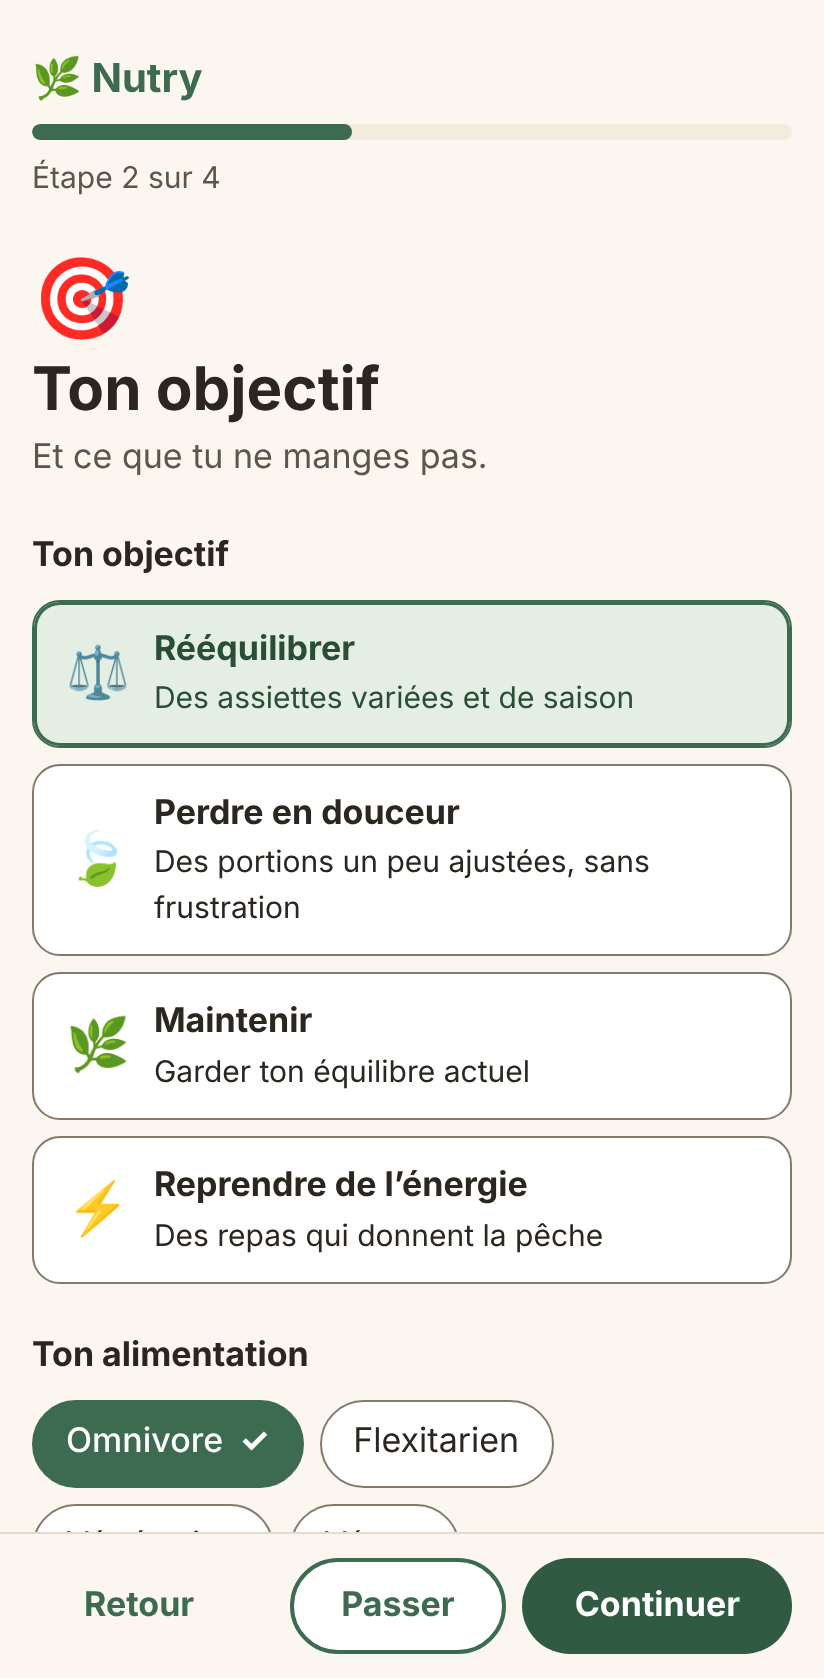
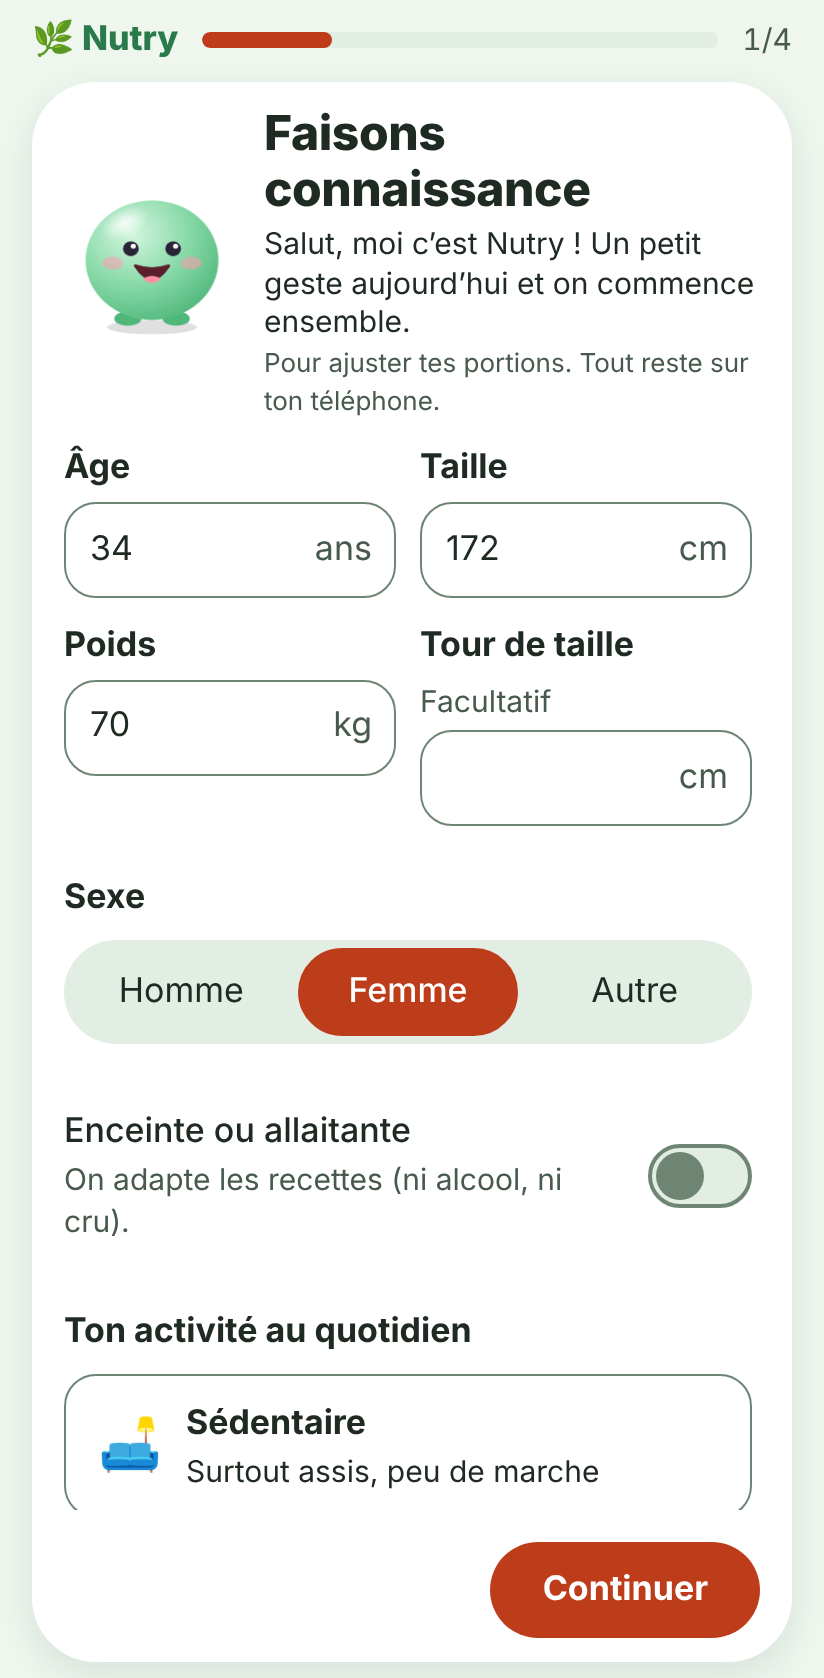
docs: captures régénérées (semaine, recette, courses, profil, onboarding), section « Ton Nutry », ADR 0013
Claude-Session: https://claude.ai/code/session_013DAqugnhAV6JwpwQeECSpA

diff --git a/docs/adr/0013-refonte-visuelle-sans-scroll.md b/docs/adr/0013-refonte-visuelle-sans-scroll.md
@@ -1,0 +1,79 @@
+# ADR 0013 — Refonte visuelle : coque d'app sans scroll, Nutry et illustrations
+
+- Statut : accepté (demande de l'utilisateur : design plus attrayant, « quelque chose sur une
+  page », sans défilement)
+- Date : 2026-11-23
+- Complète : ADR 0004 (jetons et CSS Modules), ADR 0012 (compagnon)
+
+## Contexte
+
+L'interface d'origine empilait des cartes dans une longue page défilante. L'utilisateur la
+trouve peu attrayante et ne veut **pas de scroll** : chaque écran doit tenir dans la hauteur du
+téléphone. Il valide l'inspiration des applications de nutrition modernes (fond vert très
+pâle, cartes blanches très arrondies, accent corail, bandeau de jours, onglets segmentés,
+illustrations plates, jauges colorées) et ne veut **pas de calories mises en avant**.
+
+## Décision
+
+### Coque d'app
+
+- `html`, `body` et la coque (`App.module.css`) font `100dvh` et ne défilent pas : en-tête
+  compact, contenu qui remplit la hauteur restante, barre d'onglets (4 au plus) en bas.
+- Seules les listes intrinsèquement longues défilent, **dans leur carte** : un rayon de
+  courses, les ingrédients et étapes d'une recette, les sections d'une feuille plein écran.
+  Elles passent par `ScrollArea` (région nommée, focalisable au clavier : règle axe
+  `scrollable-region-focusable`). `Page` accepte `scroll` pour les écrans secondaires (Frigo
+  vide, Confidentialité).
+- Cible : 360 × 640 au minimum et Pixel 7. Les écrans bas (`max-height: 760px`) passent la
+  carte du repas en deux colonnes (illustration à côté du nom). `e2e/sans-scroll.spec.ts`
+  vérifie, dans les deux tailles, que la page ne défile pas **et** que le contenu de
+  `<main>` ne déborde pas (sinon la règle serait vérifiée à vide).
+
+### Navigation et gestes
+
+- Semaine : bandeau des 7 jours, onglets repas du jour, une grande carte. Un glissement
+  horizontal (`Swipeable`, pointer events, sans bibliothèque, `touch-action: pan-y`) passe au
+  repas suivant ou précédent ; les boutons ‹ › et les flèches du clavier sont toujours
+  disponibles. Les onglets sont de vrais `tablist` (`SegmentedTabs` : un seul onglet dans
+  l'ordre de tabulation, flèches, Début, Fin).
+- Les contenus secondaires (équilibre, cuisiner en avance, saisie d'une mesure, ajout d'un
+  article, favoris, historique) s'ouvrent dans des feuilles (`Sheet`) ; le Profil ouvre des
+  feuilles **plein écran** (variante `full`). Quand deux fenêtres sont empilées (célébration
+  sur la question du moment), seule celle du dessus réagit à Échap et à Tab.
+
+### Jetons et composants
+
+- Fond vert très pâle, surfaces blanches, rayons très arrondis, accent **corail** (primaire)
+  et **vert feuille** (accent) ; jauges : légumes vert, protéines corail, féculents ambre,
+  poisson bleu (`--gauge-*`). Thème sombre cohérent. `contrast.test.ts` vérifie les paires de
+  texte (AA) et les jauges (3:1 sur la carte et sur leur piste).
+- Composants : `SegmentedTabs`, `DayStrip`, `Gauge` horizontale, `RoundIconButton`, `Tile`,
+  `Sheet` plein écran, `Swipeable`, `ScrollArea`. Zones tactiles ≥ 44 px.
+- Aucune calorie à l'écran, sauf dans le détail repliable de la recette (et le détail
+  énergétique du Profil, repliable lui aussi). Le menu parle en **assiette** : trois jauges
+  (légumes, protéines, féculents) d'après `plateBalance`, part de chaque famille dans
+  l'assiette.
+
+### Nutry et illustrations
+
+- `features/companion/Nutry.tsx` : SVG pur (teinte en dégradé, yeux, joues, bouche selon
+  l'humeur, calques d'accessoires par emplacement, teintes spéciales aurore, cosmos étoilé et
+  arc-en-ciel), `role="img"` avec une description de l'apparence et de l'humeur. Animations
+  CSS légères coupées par `prefers-reduced-motion` (testé sur la feuille de style).
+- `illustrations/` : 15 familles de plats en SVG plat, choisies par `pickDishFamily` (étiquette
+  petit-déjeuner, mots du nom, puis protéine principale ; testée). Décoratives
+  (`aria-hidden`) : le nom du plat est toujours affiché. Aucune image externe (CSP
+  inchangée).
+- La célébration (`CelebrationProvider`, `useCelebrationCheck`) est vérifiée à l'ouverture et
+  après chaque geste, puis acquitte (`acknowledgeUnlocks`) avant de se refermer. La
+  présentation n'appelle que les cas d'usage (`getCompanion`, `customizeCompanion`,
+  `acknowledgeUnlocks`).
+
+## Conséquences
+
+- Les écrans sont plus denses et plus gestuels ; tout reste faisable au clavier et au lecteur
+  d'écran (boutons équivalents au glissement, onglets ARIA, noms explicites).
+- Ajouter une famille de plats : un dessin dans `dishes.tsx`, son entrée dans `DISH_FAMILIES`
+  et une règle dans `match.ts` (le test vérifie la couverture des 15 familles).
+- Si une nouvelle carte dépasse la hauteur d'un petit écran, `sans-scroll.spec.ts` échoue :
+  réduire le contenu ou le faire défiler dans sa carte.

diff --git a/README.md b/README.md
@@ -15,9 +15,13 @@ app, fonctionne **hors ligne** et garde **toutes tes données sur ton appareil**
 
 ## Captures
 
-| Ma semaine                                          | Liste de courses                                            | Premiers pas                                                     |
-| --------------------------------------------------- | ----------------------------------------------------------- | ---------------------------------------------------------------- |
-| ![Le menu de la semaine](docs/captures/semaine.png) | ![La liste de courses par rayon](docs/captures/courses.png) | ![L'accueil en quelques questions](docs/captures/onboarding.png) |
+| Ma semaine                                          | Une recette                               | Courses par rayon                                           | Profil et Nutry                                    | Premiers pas                                                     |
+| --------------------------------------------------- | ----------------------------------------- | ----------------------------------------------------------- | -------------------------------------------------- | ---------------------------------------------------------------- |
+| ![Le menu de la semaine](docs/captures/semaine.png) | ![Une recette](docs/captures/recette.png) | ![La liste de courses par rayon](docs/captures/courses.png) | ![Le profil, avec Nutry](docs/captures/profil.png) | ![L'accueil en quelques questions](docs/captures/onboarding.png) |
+
+Chaque écran principal tient dans la hauteur du téléphone, **sans défilement de page** : seules
+les longues listes (un rayon, les étapes d'une recette) défilent à l'intérieur de leur carte.
+Sur la Semaine, on glisse du doigt (ou on touche les boutons ‹ ›) pour passer au repas suivant.
 
 ## Fonctionnalités
 
@@ -40,8 +44,35 @@ app, fonctionne **hors ligne** et garde **toutes tes données sur ton appareil**
   avec une tendance lissée qui valorise la régularité. Le poids n'est pas proposé par défaut
   aux profils à protéger (mineurs, grossesse, condition de santé, poids bas), qui peuvent
   l'activer eux-mêmes.
+- **Ton Nutry** : un petit compagnon qui récompense la régularité (voir ci-dessous).
 - **Thème clair et sombre**, interface mobile d'abord, gros boutons, quatre onglets :
   Semaine, Courses, Profil, Progrès.
+
+## Ton Nutry
+
+Nutry est une petite boule douce qui t'accueille, pose la question du moment, et grandit avec
+ta régularité. Elle ne culpabilise jamais : si tu t'absentes, elle fait la sieste, et ton
+record comme tes accessoires restent à toi.
+
+- **Un geste par jour** fait vivre la série : répondre à la question du moment, noter un repas
+  (👍 ou 👎) ou cocher un article de courses. Ouvrir l'app ne compte pas.
+- **Humeurs** : joyeux (geste aujourd'hui), content (geste hier) ou à la sieste (série
+  interrompue). Jamais triste.
+- **Déblocages sur ton record**, jamais sur la série en cours, donc rien ne se perd :
+  la feuille sur la tête dès 1 jour, les lunettes rondes à 3, la toque de chef à 7,
+  l'écharpe à 10, le tablier à 14, le bonnet à 21 et la couronne de fruits à 30 ; les teintes
+  spéciales Aurore à 5 jours, Cosmos à 15 et Arc-en-ciel à 45. Six teintes et cinq styles
+  d'yeux sont là dès le départ.
+- **Personnaliser** : depuis le Profil, une feuille plein écran montre un aperçu en direct et
+  trois onglets (Couleur, Yeux, Accessoires) ; ce qui n'est pas encore débloqué est grisé avec
+  un cadenas et « à N jours de série ».
+- **Célébration** : quand Nutry gagne quelque chose, une petite fenêtre festive le fête
+  (confettis sobres, coupés si ton téléphone réduit les animations).
+
+Tout le dessin est en SVG (aucune image externe) et les animations légères (flottement,
+clignement, petit rebond) respectent `prefers-reduced-motion`. Les choix de conception sont
+dans [ADR 0012](docs/adr/0012-compagnon-nutry-et-serie.md) (règles) et
+[ADR 0013](docs/adr/0013-refonte-visuelle-sans-scroll.md) (interface).
 
 Le catalogue compte 88 recettes et 464 questions de quiz, toutes en français.
 

diff --git a/docs/adr/0004-css-modules-variables.md b/docs/adr/0004-css-modules-variables.md
@@ -23,3 +23,5 @@ supplémentaire.
 - Phase 1 : jetons minimaux ; l'agent ui-ux les complète en phase 5 (contrastes AA, tailles
   tactiles ≥ 48 px).
 - Les composants n'utilisent jamais de couleur en dur : toujours une variable.
+- Refonte visuelle (ADR 0013) : nouvelle palette (fond vert pâle, accent corail, jauges par
+  catégorie), rayons plus arrondis, coque d'app sans défilement de page.
